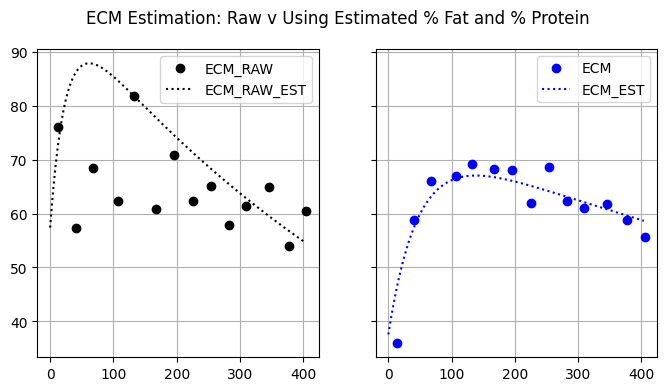
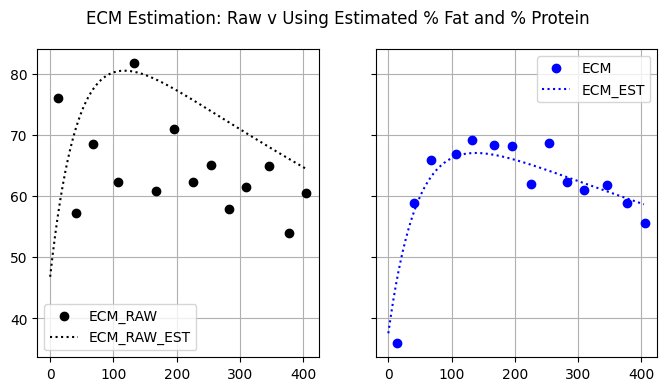
ecm estimation

diff --git a/milkbot/mse_min.py b/milkbot/mse_min.py
@@ -1,27 +1,46 @@
-from scipy.optimize import minimize
-from sklearn.metrics import mean_squared_error
+from scipy.optimize import minimize, dual_annealing
+from sklearn.metrics import mean_squared_error, mean_absolute_percentage_error, mean_squared_log_error, mean_absolute_error
 import numpy as np
 from milkbot.formulas import milkbot
 
 
-def to_min_factory(y: np.array, x: np.array):
-    return lambda par: mean_squared_error(y, milkbot(par,x))
+def to_min_factory(y: np.array, x: np.array, fun):
+    return lambda par: fun(y, milkbot(par,x))
 
 def milkbot_solution(
     y: np.array,
     x: np.array,
     par_init: np.array = np.array([100.0, 25.0, -4.0, 0.0015]),
+    bounds: list = [(0.0, None), (0.0, None), (None, 0.0), (0.0, None)],
+    constraints: list = [ {'type': 'ineq','fun': lambda p:  0.1 - p[1] * p[3]}],
     verbose: bool = False
     ):
     soln = minimize(
-        to_min_factory(y,x), 
+        to_min_factory(y,x,mean_squared_error), 
         x0=par_init, 
         method='SLSQP', 
-        bounds=[(0.0, None), (0.0, None), (None, 0.0), (0.0, None)],
-        constraints=[
-            {'type': 'ineq','fun': lambda p:  0.1 - p[1] * p[3]}
-            ],
-        options={'maxiter': 1e6, 'disp': verbose, 'ftol': 1e-4}
+        bounds=bounds,
+        constraints=constraints,
+        tol=1e-12,
+        options={'maxiter': 1e6, 'disp': verbose, 'ftol': 1e-8}
+        )
+    
+    return soln
+
+
+def milkbot_solution_b(
+    y: np.array,
+    x: np.array,
+    bounds: np.array,
+    x0: np.array,
+    **kwargs
+    ):
+    soln = dual_annealing(
+        to_min_factory(y,x,mean_squared_error), 
+        bounds=bounds,
+        maxiter=10000,
+        no_local_search=True,
+        x0=x0
         )
     
     return soln

diff --git a/function_estimation.py b/function_estimation.py
@@ -1,0 +1,42 @@
+import numpy as np
+import pandas as pd
+import matplotlib.pyplot as plt
+from scipy.optimize import curve_fit
+import seaborn as sns
+#from milkbot.formulas import milkbot
+
+def milkbot(DIM: np.array, a, b, c, d):
+    return a * (1 - np.exp((c - DIM)/b)/2) * np.exp(-d*DIM)
+
+df = pd.read_csv("docs/example1.csv")
+
+par_init = np.array([90.0, 25.0, 15.0, 0.002])
+bounds = (
+    [0., 0., -30., 0.], 
+    [200., 100., 30., 0.01]
+    )
+dim = np.arange(400)
+milk_pred = milkbot(dim, *list(par_init))
+
+plt.plot(df.DIM, df.MILK, 'ro', label='data')
+
+
+popt, pcov = curve_fit(milkbot, df.DIM, df.MILK, p0=par_init)
+print(popt)
+print(pcov)
+
+plt.plot(df.DIM, milkbot(df.DIM, *popt), 'g-',
+         label='fit: a=%5.3f, b=%5.3f, c=%5.3f, d=%5.3f' % tuple(popt))
+
+popt, pcov = curve_fit(milkbot, df.DIM, df.MILK, p0=par_init, bounds=bounds)
+
+plt.plot(df.DIM, milkbot(df.DIM, *popt), 'b:',
+         label='fit: a=%5.3f, b=%5.3f, c=%5.3f, d=%5.3f' % tuple(popt))
+
+plt.legend()
+plt.grid()
+plt.show()
+
+# using the upper triangle matrix as mask 
+#sns.heatmap(pcov, fmt='.1g', annot=True)
+#plt.show()

diff --git a/ecm_estimation.py b/ecm_estimation.py
@@ -2,7 +2,7 @@ import numpy as np
 import matplotlib.pyplot as plt
 import pandas as pd
 from sklearn.linear_model import LinearRegression
-from milkbot.mse_min import milkbot_solution
+from milkbot.mse_min import milkbot_solution, milkbot_solution_b
 from milkbot.formulas import milkbot, ecm_milk
 
 df = pd.read_csv("docs/example1.csv")
@@ -34,7 +34,10 @@ plt.close()
 
 # Plot ECM v DIM
 df['ECM_RAW'] = df.apply(lambda x: ecm_milk(x.MILK, x.PCTF, x.PCTP), axis=1)
-ecm_raw_soln = milkbot_solution(df['ECM_RAW'], df['DIM'])
+par_init = np.array([85.0, 50, -90, 0.0009])
+est_bounds = [(0.0, None), (0.0, None), (None, 0.0), (0.0, None)]
+ecm_raw_soln = milkbot_solution(df['MILK'], df['DIM'], bounds=est_bounds, par_init=par_init)
+print(ecm_raw_soln)
 ecm_raw_est = milkbot(ecm_raw_soln.x, dim)
 df['ECM'] = df.apply(lambda x: ecm_milk(x.MILK, x.PCTF_EST, x.PCTP_EST), axis=1)
 ecm_soln = milkbot_solution(df['ECM'], df['DIM'])
